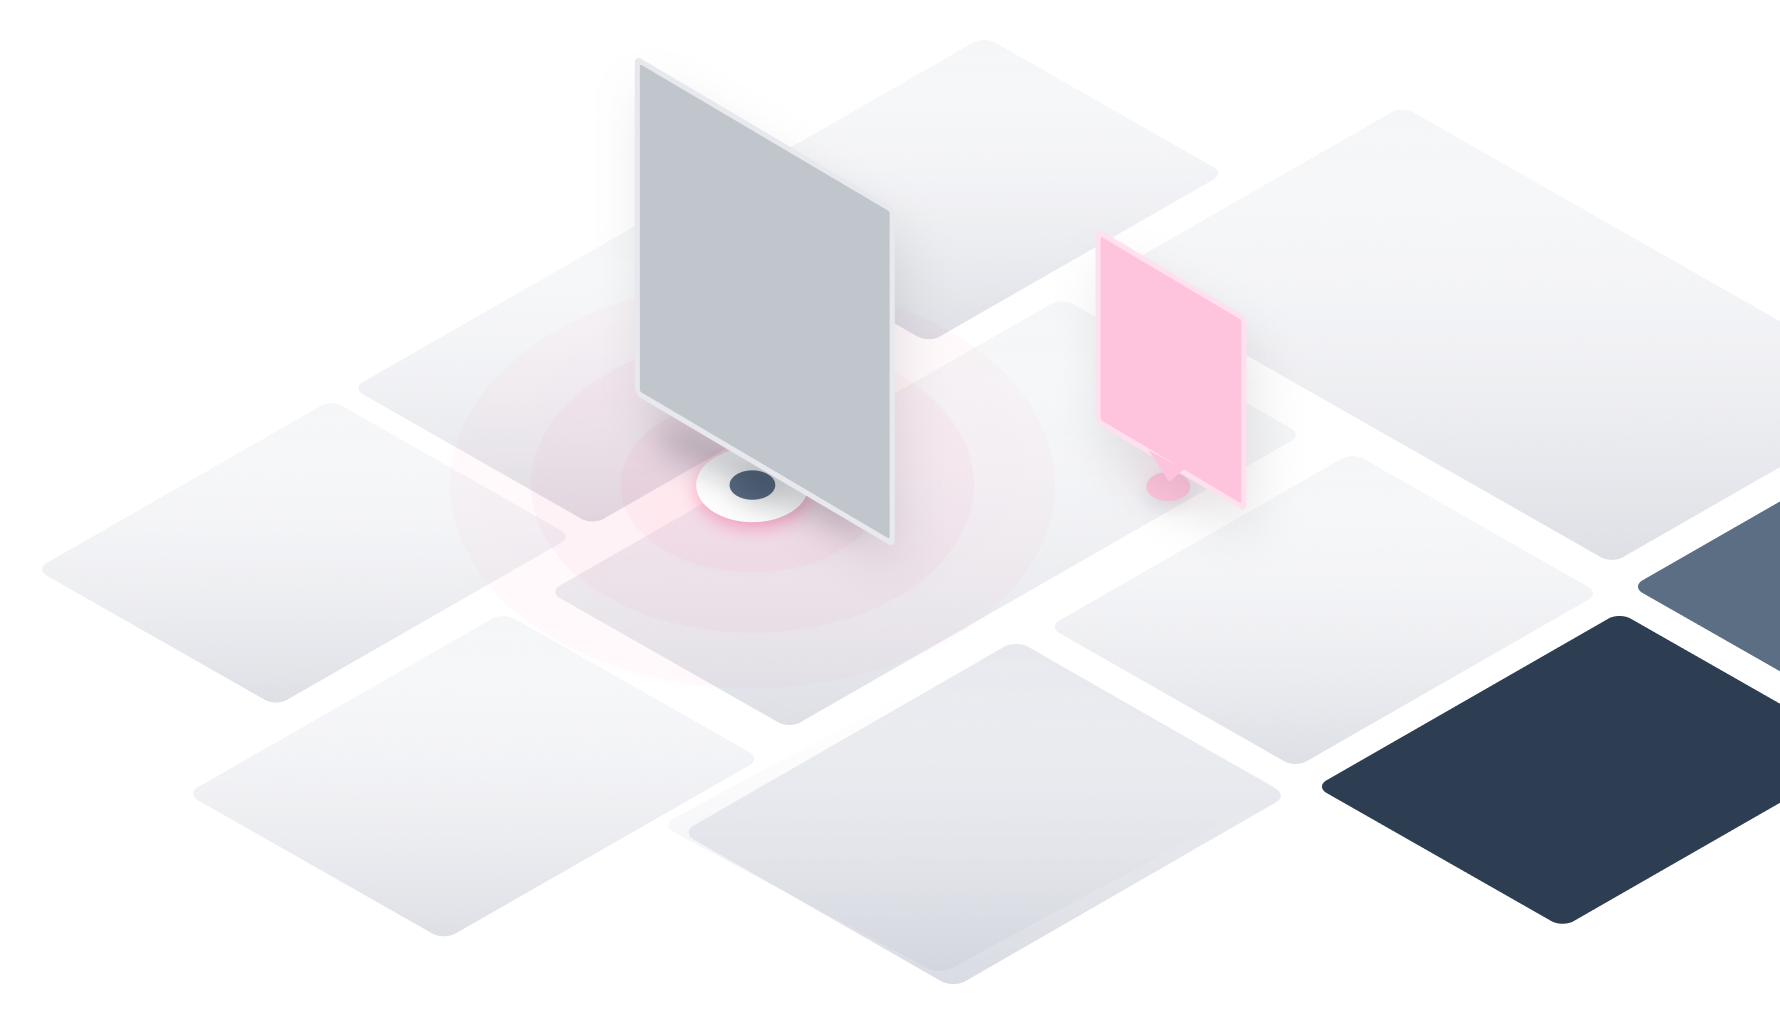
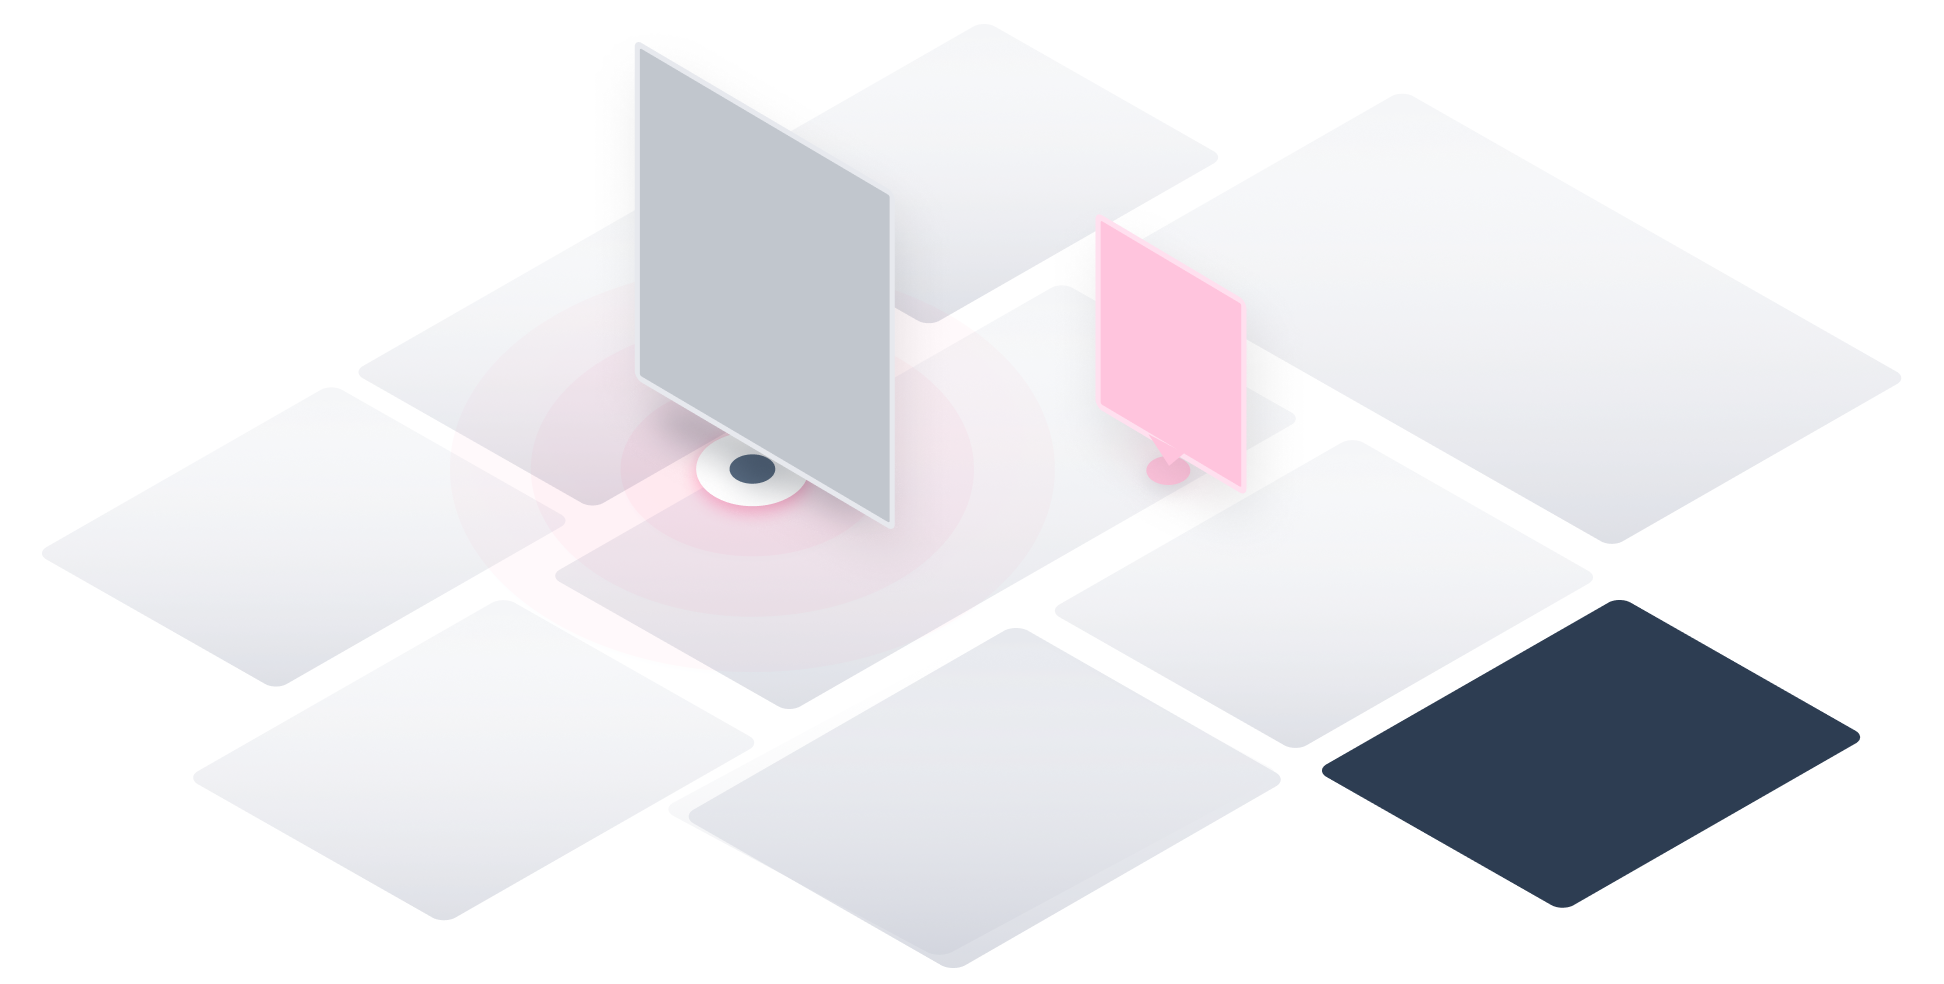
docs: updating known issues images in index
updating KI images because they were repeated

diff --git a/src/pages/known-issues/index.tsx b/src/pages/known-issues/index.tsx
@@ -22,7 +22,7 @@ import { getDocsPaths as getKnownIssuesPaths } from 'utils/getDocsPaths'
 import { getLogger } from 'utils/logging/log-util'
 import PageHeader from 'components/page-header'
 import { useIntl } from 'react-intl'
-import startHereImage from '../../../public/images/start-here.png'
+import startHereImage from '../../../public/images/known-issues.png'
 import KnownIssueCard from 'components/known-issue-card'
 import Pagination from 'components/pagination'
 import { localeType } from 'utils/navigation-utils'
@@ -144,7 +144,7 @@ const KnownIssuesPage: NextPage<Props> = ({ knownIssuesData, branch }) => {
           key="title"
         />
         {/* Preload critical LCP image */}
-        <link rel="preload" as="image" href="/images/start-here.png" />
+        <link rel="preload" as="image" href="/images/known-issues.png" />
       </Head>
       <Fragment>
         <PageHeader
